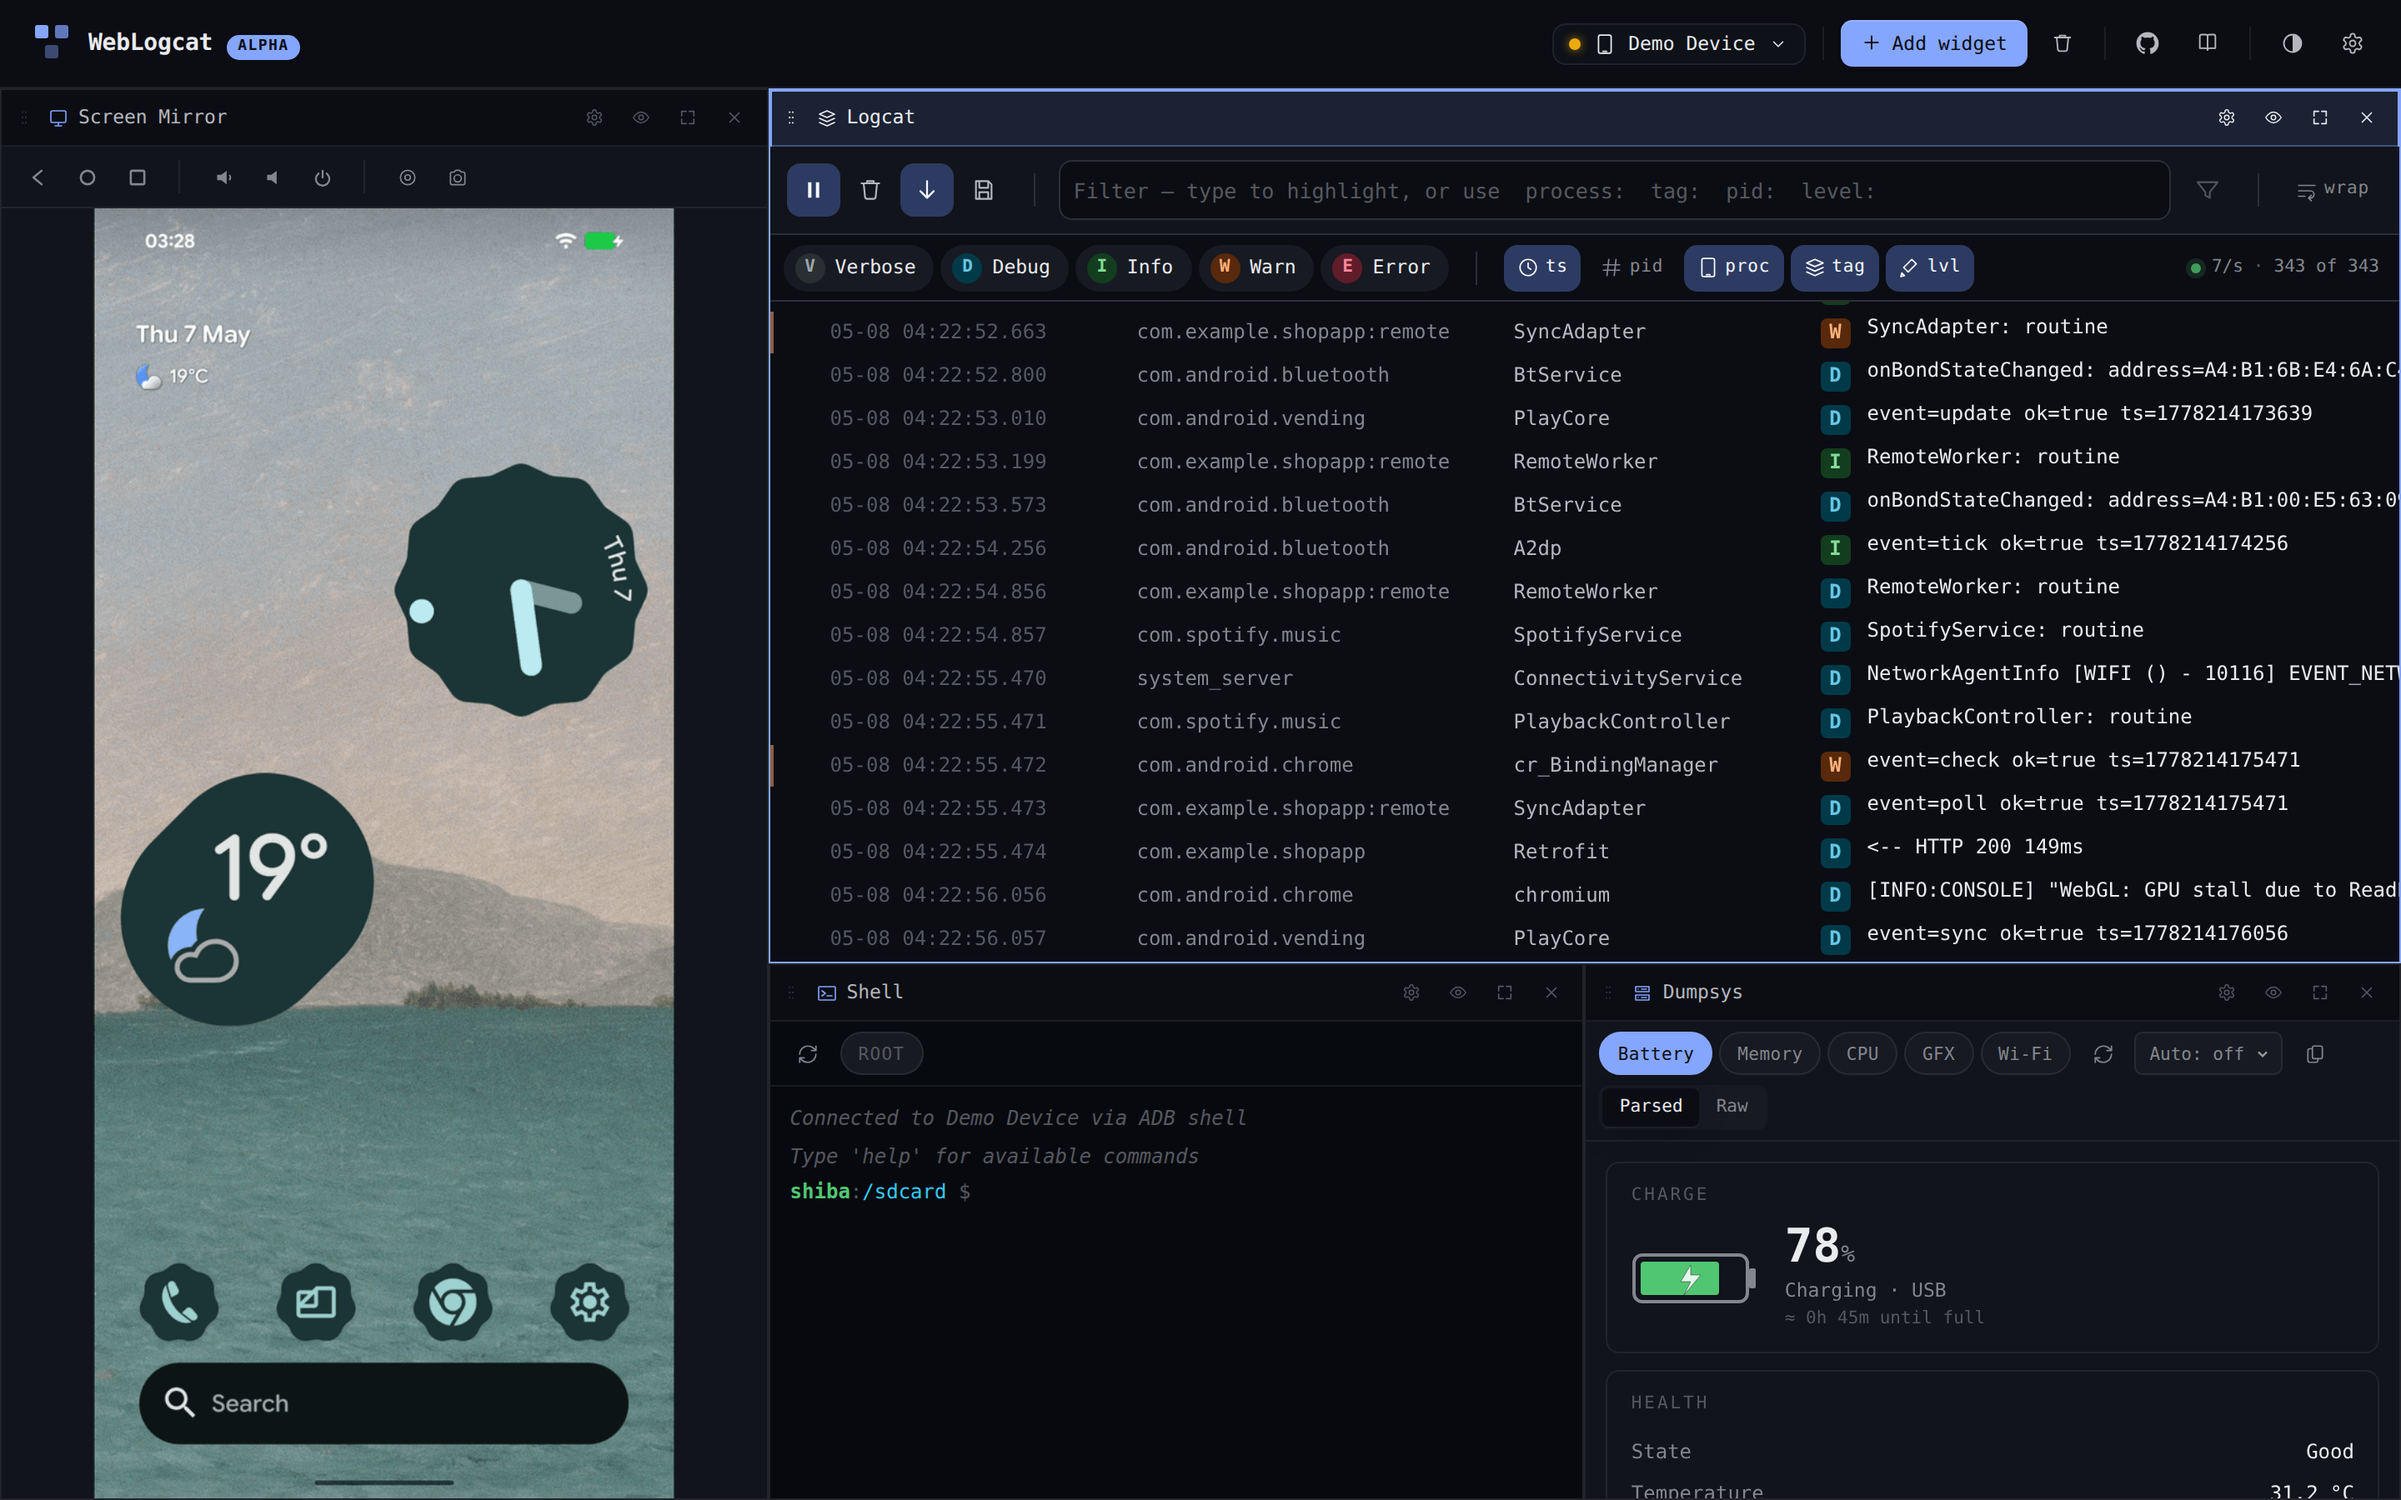
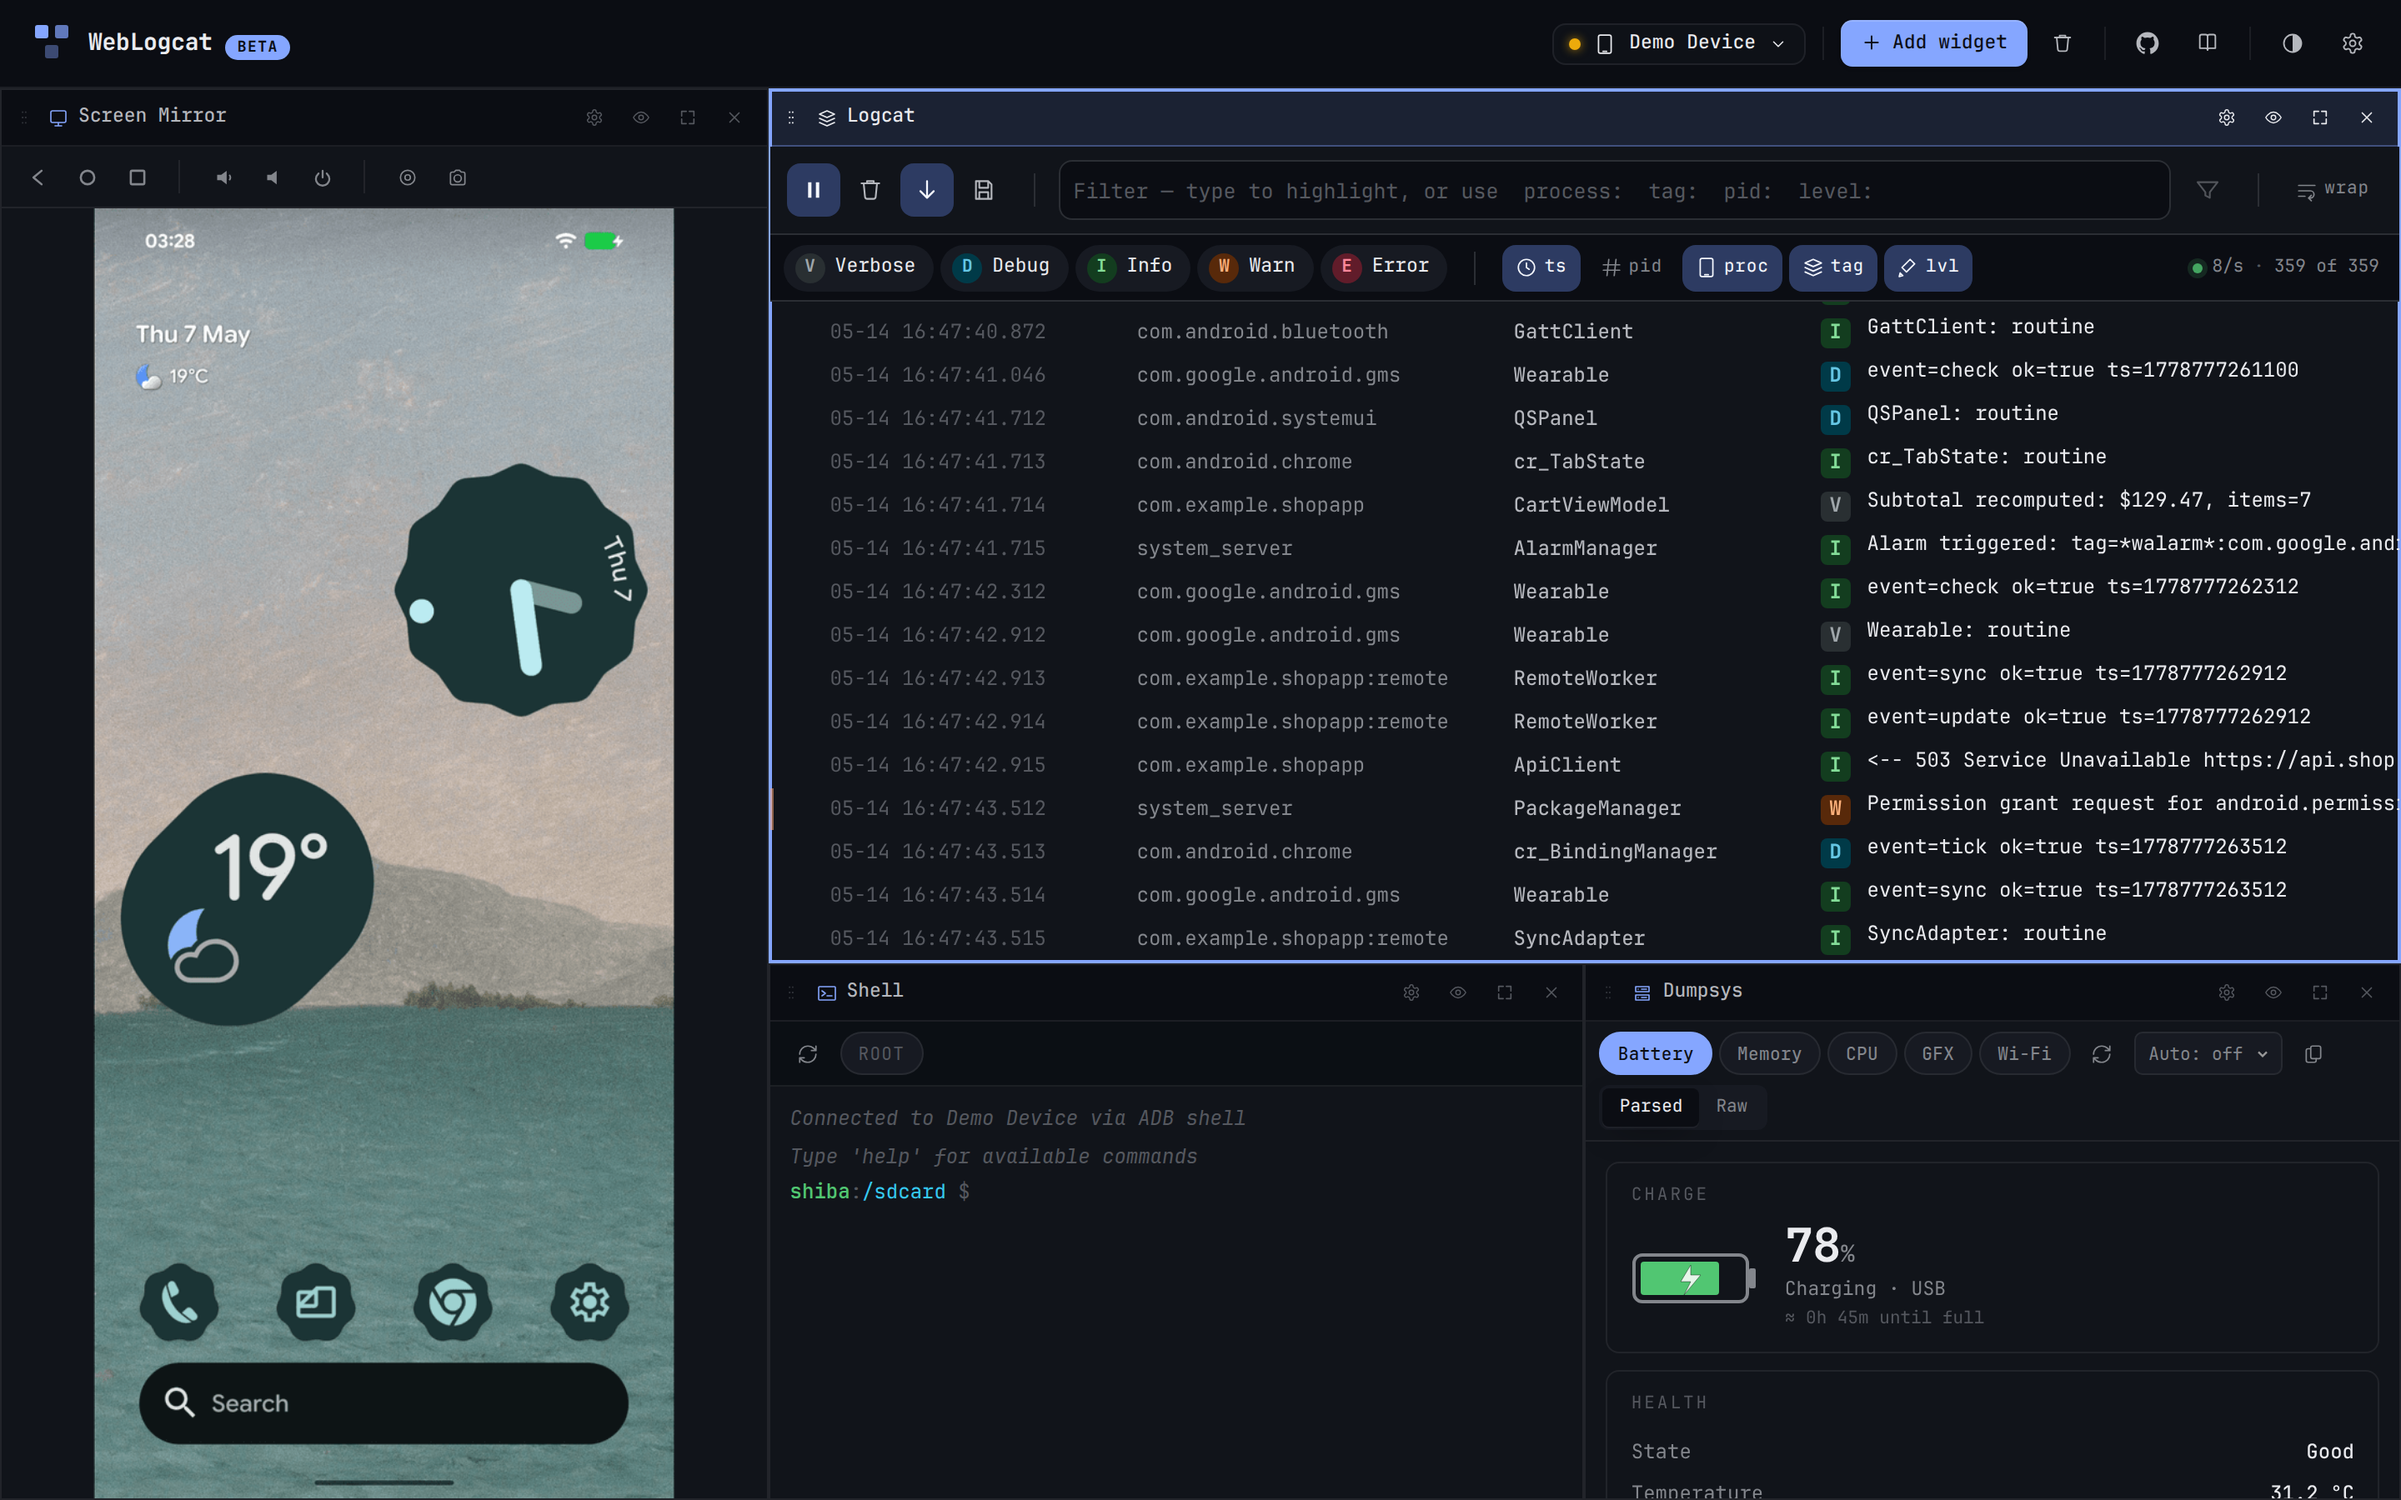
release: promote alpha to beta (#157)
* release: promote alpha to beta

Swap the brand pill from "alpha" to "beta" on the dashboard topbar
and the empty/connect screen, and bump to 0.5.0 so the visible pill
and package version agree from the same commit. CSS class names
(`dash-brand-beta`, `empty-alpha`) stay unchanged per the release
plan.

* docs: regenerate screenshots for beta + wait on font load

Capture script now awaits `document.fonts.ready` before each
screenshot. Without it, Playwright could snap mid-FOUT and the
mono surfaces would render in the system fallback (DejaVu /
Liberation) rather than JetBrains Mono — which is what the
previous batch of PNGs shipped.

Re-runs every dark + light shot, plus both hero variants, so
the `beta` pill replaces `alpha` everywhere it was baked in.

* docs: capture screenshots with JetBrains Mono; bump to 0.2.0

Previous capture silently fell back to the system mono (DejaVu /
Liberation) when the gstatic.com font fetch was blocked or
`font-display: swap` raced the snapshot. `waitForFonts` now asserts
that JBM is actually loaded before the screenshot fires, so a regressed
capture environment fails the run instead of committing a wrong-font
PNG. Re-runs every dark + light shot against a JBM-resolved page.

Also bumps `package.json` from 0.5.0 to 0.2.0 — saving the bigger
minor jump for later.

---------

diff --git a/scripts/capture-feature-screenshots.spec.ts b/scripts/capture-feature-screenshots.spec.ts
@@ -60,6 +60,25 @@ function out(theme: Theme, name: string): string {
 }
 
 /**
+ * Wait until JetBrains Mono is actually available on the page. The
+ * dashboard's mono surfaces (logcat rows, shell, dumpsys tables)
+ * render in JBM; without this assertion Playwright can snap mid-FOUT
+ * — or, worse, capture with the system fallback (DejaVu / Liberation
+ * Mono) when the Google Fonts fetch is blocked or `font-display: swap`
+ * decides the fallback is good enough. The screenshots that ship to
+ * the docs site must be JBM, so we fail the run rather than commit a
+ * silently-wrong PNG. If this assertion trips, install JBM locally
+ * (`apt install fonts-jetbrains-mono`) or unblock fonts.gstatic.com.
+ */
+async function waitForFonts(page: Page): Promise<void> {
+  await page.evaluate(() => document.fonts.ready);
+  const hasJbm = await page.evaluate(() =>
+    document.fonts.check('12px "JetBrains Mono"'),
+  );
+  expect(hasJbm, 'JetBrains Mono not loaded — screenshots would ship the system mono fallback').toBe(true);
+}
+
+/**
  * Boot the simulator with the given theme + indigo accent +
  * performance mode. The accent matches the docs site's brand; the
  * performance flag matches tests/smoke.spec.ts so layout transitions
@@ -96,6 +115,7 @@ async function bootSimulator(page: Page, theme: Theme): Promise<void> {
   await page.addStyleTag({
     content: '.fake-badge,.toast{display:none!important}',
   });
+  await waitForFonts(page);
 }
 
 async function addWidget(
@@ -136,6 +156,7 @@ for (const theme of ['dark', 'light'] as const) {
         page.getByRole('heading', { name: /no device connected/i }),
       ).toBeVisible();
       await expect(page.locator('html')).toHaveAttribute('data-theme', theme);
+      await waitForFonts(page);
       await page.screenshot({ path: out(theme, 'empty-state'), fullPage: false });
     });
 
@@ -153,6 +174,7 @@ for (const theme of ['dark', 'light'] as const) {
       await page.goto('/');
       await page.getByRole('button', { name: /choose connection method/i }).click();
       await expect(page.getByRole('menu')).toBeVisible();
+      await waitForFonts(page);
       await page.screenshot({
         path: out(theme, 'connect-dropdown'),
         fullPage: false,
@@ -175,6 +197,7 @@ for (const theme of ['dark', 'light'] as const) {
       await page.getByRole('menuitem', { name: /Connect via Web Device Proxy/i }).click();
       const dialog = page.getByRole('dialog', { name: /Connect via Web Device Proxy/i });
       await expect(dialog).toContainText(/Daemon not detected/i);
+      await waitForFonts(page);
       await page.screenshot({
         path: out(theme, 'wdp-dialog'),
         fullPage: false,
@@ -362,6 +385,7 @@ test.describe('hero shots', () => {
       await page.addStyleTag({
         content: '.fake-badge,.toast{display:none!important}',
       });
+      await waitForFonts(page);
       const heroPath = theme === 'dark' ? HERO_PATH : HERO_LIGHT_PATH;
       await page.screenshot({ path: heroPath, fullPage: false });
     });

diff --git a/src/components/EmptyState.tsx b/src/components/EmptyState.tsx
@@ -139,7 +139,7 @@ export function EmptyState({ onConnect, onUseFakeData, onConnectWdp }: EmptyStat
         </div>
 
         <div className="empty-eyebrow">
-          WEBLOGCAT <span className="empty-alpha" aria-label="Alpha release">alpha</span>
+          WEBLOGCAT <span className="empty-alpha" aria-label="Beta release">beta</span>
         </div>
         <h1 className="empty-title">No device connected</h1>
         <p className="empty-sub">

diff --git a/src/components/Dashboard.tsx b/src/components/Dashboard.tsx
@@ -262,7 +262,7 @@ function DashTopbar({
           <span className="dash-brand-square s3" />
         </span>
         <span className="dash-brand-name">WebLogcat</span>
-        <span className="dash-brand-beta" aria-label="Alpha release">alpha</span>
+        <span className="dash-brand-beta" aria-label="Beta release">beta</span>
       </button>
 
       <div style={{ flex: 1 }} />

diff --git a/src/styles/components.css b/src/styles/components.css
@@ -114,7 +114,7 @@
   color: var(--accent-fg);
   margin-bottom: 12px;
 }
-/* Alpha release pill on the empty/connect screen — same look as the
+/* Release-tier pill on the empty/connect screen — same look as the
    `dash-brand-beta` pill in the topbar so the release tier reads
    consistently across both views. */
 .empty-alpha {

diff --git a/docs/devs/release-plan.md b/docs/devs/release-plan.md
@@ -6,7 +6,7 @@ HN-style channels) to general availability (drop the beta pill, ship
 v1.0). It's written so a human can follow it directly *and* so an
 agent can be pointed at a single phase and execute it.
 
-The repo currently sits in **alpha**. The pre-release cleanup pass is
+The repo currently sits in **beta**. The pre-release cleanup pass is
 done.
 
 ---
@@ -72,7 +72,7 @@ This is recorded for completeness; the actions are already on `main`.
 
 ---
 
-## Phase 1 — Alpha (current)
+## Phase 1 — Alpha
 
 **Goal:** small private cohort uses the staging URL and reports back.
 
@@ -120,7 +120,7 @@ Don't:
 
 ---
 
-## Phase 2 — Beta (broader sharing)
+## Phase 2 — Beta (current)
 
 **Goal:** the app is shared on Reddit / HN-style channels and absorbs
 public feedback.
